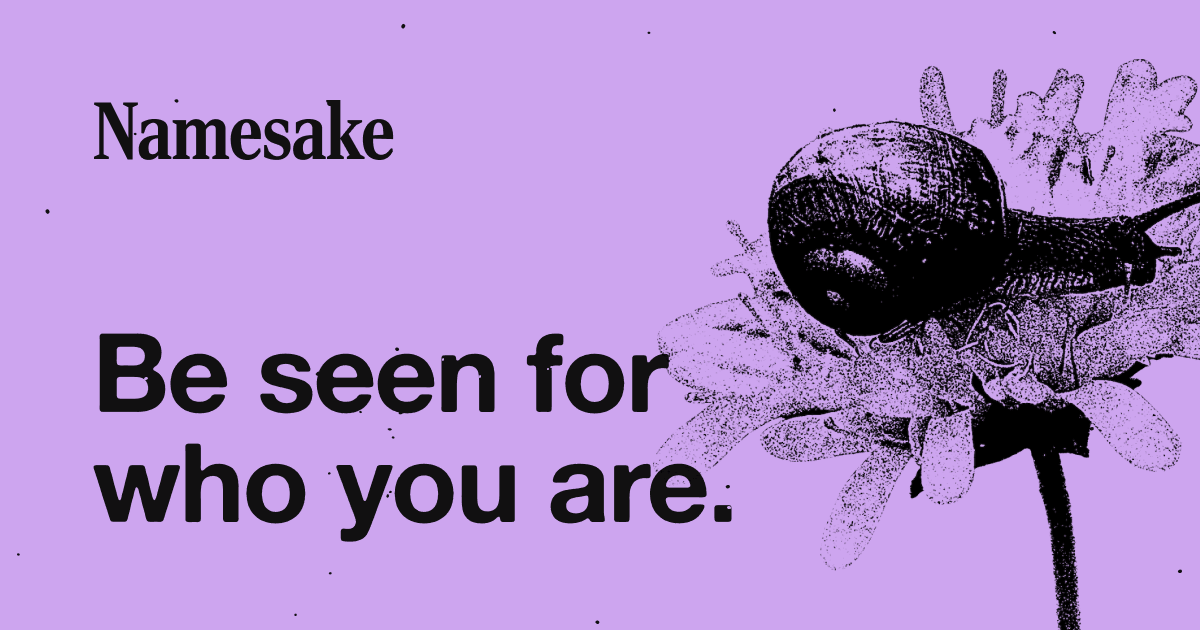
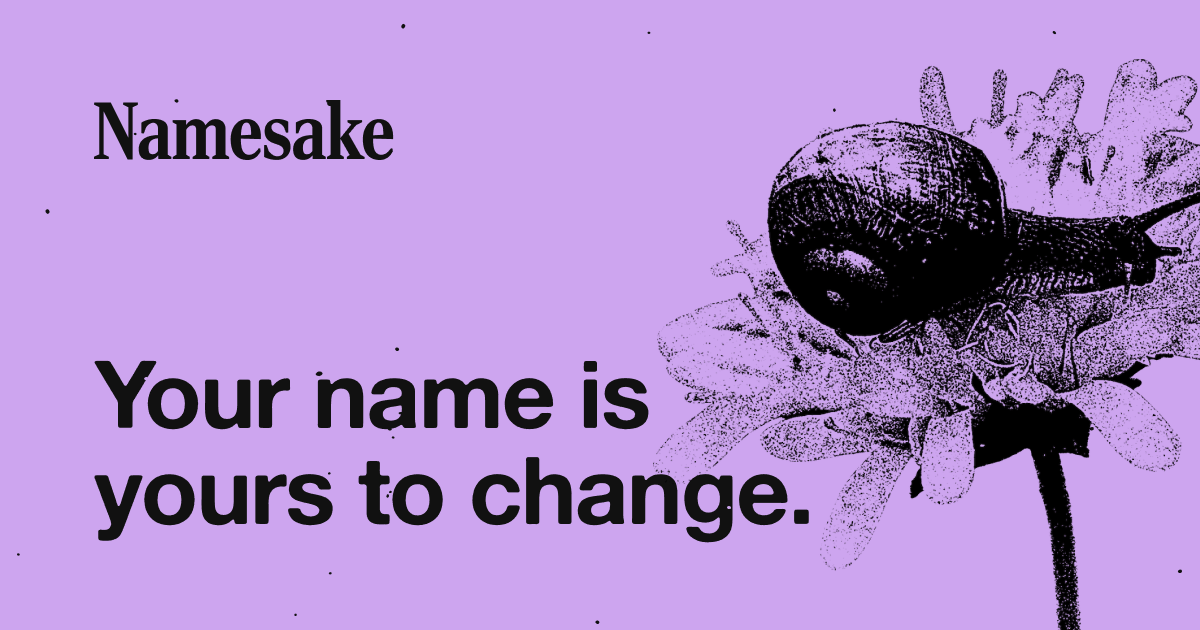
Update homepage

Changed region(s): [[0.0617, 0.5127, 0.6783, 0.8746], [0.0617, 0.8444, 0.0925, 0.8746]]

diff --git a/src/styles/base.css b/src/styles/base.css
@@ -153,3 +153,65 @@ img {
   outline: 3px solid var(--text);
   outline-offset: 2px;
 }
+
+.button {
+  display: flex;
+  align-items: center;
+  justify-content: center;
+  padding: var(--space-s) var(--space-l);
+  border-radius: 5px;
+  font-weight: 600;
+  text-decoration: none;
+  height: var(--space-3xl);
+  gap: var(--space-xs);
+  border: 3px solid transparent;
+
+  &.primary {
+    background-color: var(--text);
+    border-color: var(--text);
+    color: var(--bg);
+
+    @media (hover: hover) {
+      &:hover {
+        background-color: var(--bg);
+        color: var(--text);
+      }
+    }
+  }
+
+  &.secondary {
+    background-color: var(--bg);
+    color: var(--text);
+    border-color: var(--text);
+
+    @media (hover: hover) {
+      &:hover {
+        background-color: var(--text);
+        color: var(--bg);
+      }
+    }
+  }
+
+  &.ghost {
+    background-color: transparent;
+    color: var(--text);
+    border-color: transparent;
+
+    @media (hover: hover) {
+      &:hover {
+        border-color: var(--text);
+      }
+    }
+  }
+
+  &.small {
+    padding: var(--space-xs) var(--space-s);
+    height: var(--space-2xl);
+    font-size: var(--step--1);
+  }
+
+  svg {
+    width: 1.25em;
+    height: 1.25em;
+  }
+}

diff --git a/src/data/site-info.ts b/src/data/site-info.ts
@@ -25,18 +25,28 @@ export type SiteInfo = {
     src: string;
     alt: string;
   };
+  urls: {
+    app: string;
+    chat: string;
+    status: string;
+  };
   socialLinks: Record<SocialPlatform, SocialLink>;
 };
 
 const siteInfo: SiteInfo = {
   name: "Namesake",
   fullName: "Namesake Collaborative",
-  title: "Be seen for who you are",
+  title: "Your name is yours to change",
   description:
     "Streamlining the legal name and gender marker change process in the US.",
+  urls: {
+    app: "https://app.namesake.fyi",
+    chat: "/chat",
+    status: "/status",
+  },
   image: {
     src: "/og/social.png",
-    alt: "Be seen for who you are",
+    alt: "Your name is yours to change",
   },
   socialLinks: {
     discord: {

diff --git a/src/content.config.ts b/src/content.config.ts
@@ -97,6 +97,7 @@ export const collections = {
           .optional(),
       }),
   }),
+
   policy: defineCollection({
     loader: githubFileLoader({
       username: "namesakefyi",

diff --git a/src/content/posts/new-namesake-app.md b/src/content/posts/new-namesake-app.md
@@ -1,0 +1,70 @@
+---
+title: A new, more accessible Namesake app
+description: >-
+  We've rebuilt the Namesake app from the ground-up to help support legal name changes in Massachusetts and beyond. Available today.
+publishDate: 2025-06-30
+authors:
+  - eva-decker
+# image:
+#   src: ../../assets/images/posts/introducing-namesake/content/namesake.webp
+#   alt: "Illustrations of a driver's license, a gavel, a passport, a social security card, and a flower with snails."
+---
+
+**Over the past year, we've completely rebuilt the Namesake app.** We're launching this new version today and we hope it helps you!
+
+## Why redesign?
+
+- First app created 3 years ago
+- Bubble sux
+- MA-specific
+- Regular downtime, difficult to update, no structure for expanding to other states
+- Relies on proprietary code
+
+## What's new?
+
+### All-new design
+
+All-new design [pics]
+
+### Clearer, more accessible forms
+
+Clearer, more accessible forms [React Aria] [pics]
+
+### Improved security
+
+Emphasis on security: all responses end-to-end encrypted, all form-filling happens on your device
+
+### We're open source
+
+Open Source codebase [link to GitHub, link to Discord]
+
+## What's next?
+
+More states! More forms! More user feedback and contributions :)
+
+
+
+### Sunsetting the old app
+
+The existing app at [masstpc.joinnamesake.com](https://masstpc.joinnamesake.com/) will shut down on **August 31, 2025**, at which point, all existing user data will be deleted. There is no way to transfer data from the old site to the new one. If you have forms from the site you would like to download, please do so before August 31st.
+
+### Supporting more states
+
+Looking for region- and state-specific legal support and partnership. If you work for an org which facilitates name changes in the US, please reach out to us at [hey@namesake.fyi](mailto:hey@namesake.fyi).
+
+### Ongoing development
+
+Get involved at GitHub and on Discord
+
+## Thank you
+
+Contributors to this release:
+mb, Zo, Luke, Ginger, Oliver, etc...
+
+Convex, Better Auth, etc.
+
+There's so much more in store we're excited to share with you. All of your generous feedback, questions, and ideas have helped us better understand how we can improve Namesake amidst very limited funding and resources.
+
+Respectful and accessible name changes are one part of a larger puzzle in creating a world where trans people—and all of us—can live life freely and joyously.
+
+**[Join us on Discord](https://namesake.fyi/chat) to chat, get help, and get involved.** There are people here to support you. For those who've already been through the process, there are opportunities to help facilitate name change clinics, contribute code, and even help Namesake expand to additional states.

diff --git a/src/content/pages/index.md b/src/content/pages/index.md
@@ -1,11 +1,11 @@
 ---
-title: Be seen for who you are
+title: Your name is yours to change
 ---
 
-**Changing your legal name and gender marker is tough.** From court paperwork to ID cards, social security, bank accounts, and dozens of other places—it’s a lot to manage.
+**Changing your legal name and gender marker is tough.** There's paperwork, bureaucracy, and dozens of tasks to keep track of. Finding a notary. Paying fees. Judges and systems with uncertain hostility toward trans people.
 
-We've been through this process and want it to be easier. We’re building Namesake to help you fill out forms, track your progress, access financial resources, and receive and share community support. You don’t have to do this alone.
+It can all feel overwhelming, but it doesn't have to be.
 
-The new Namesake app will launch in Massachusetts later this year, with more states to follow.
+We're trans, and we've been through the process ourselves. We built Namesake to help you answer questions, fill out forms, track progress, access financial resources, and receive community support. **You don’t have to do this alone.**
 
-Rigid systems weren't built for us, but we’ll figure them out together. **[Join us on Discord today](/chat).**
+Rigid systems weren't built for us, but we’ll figure them out together.
